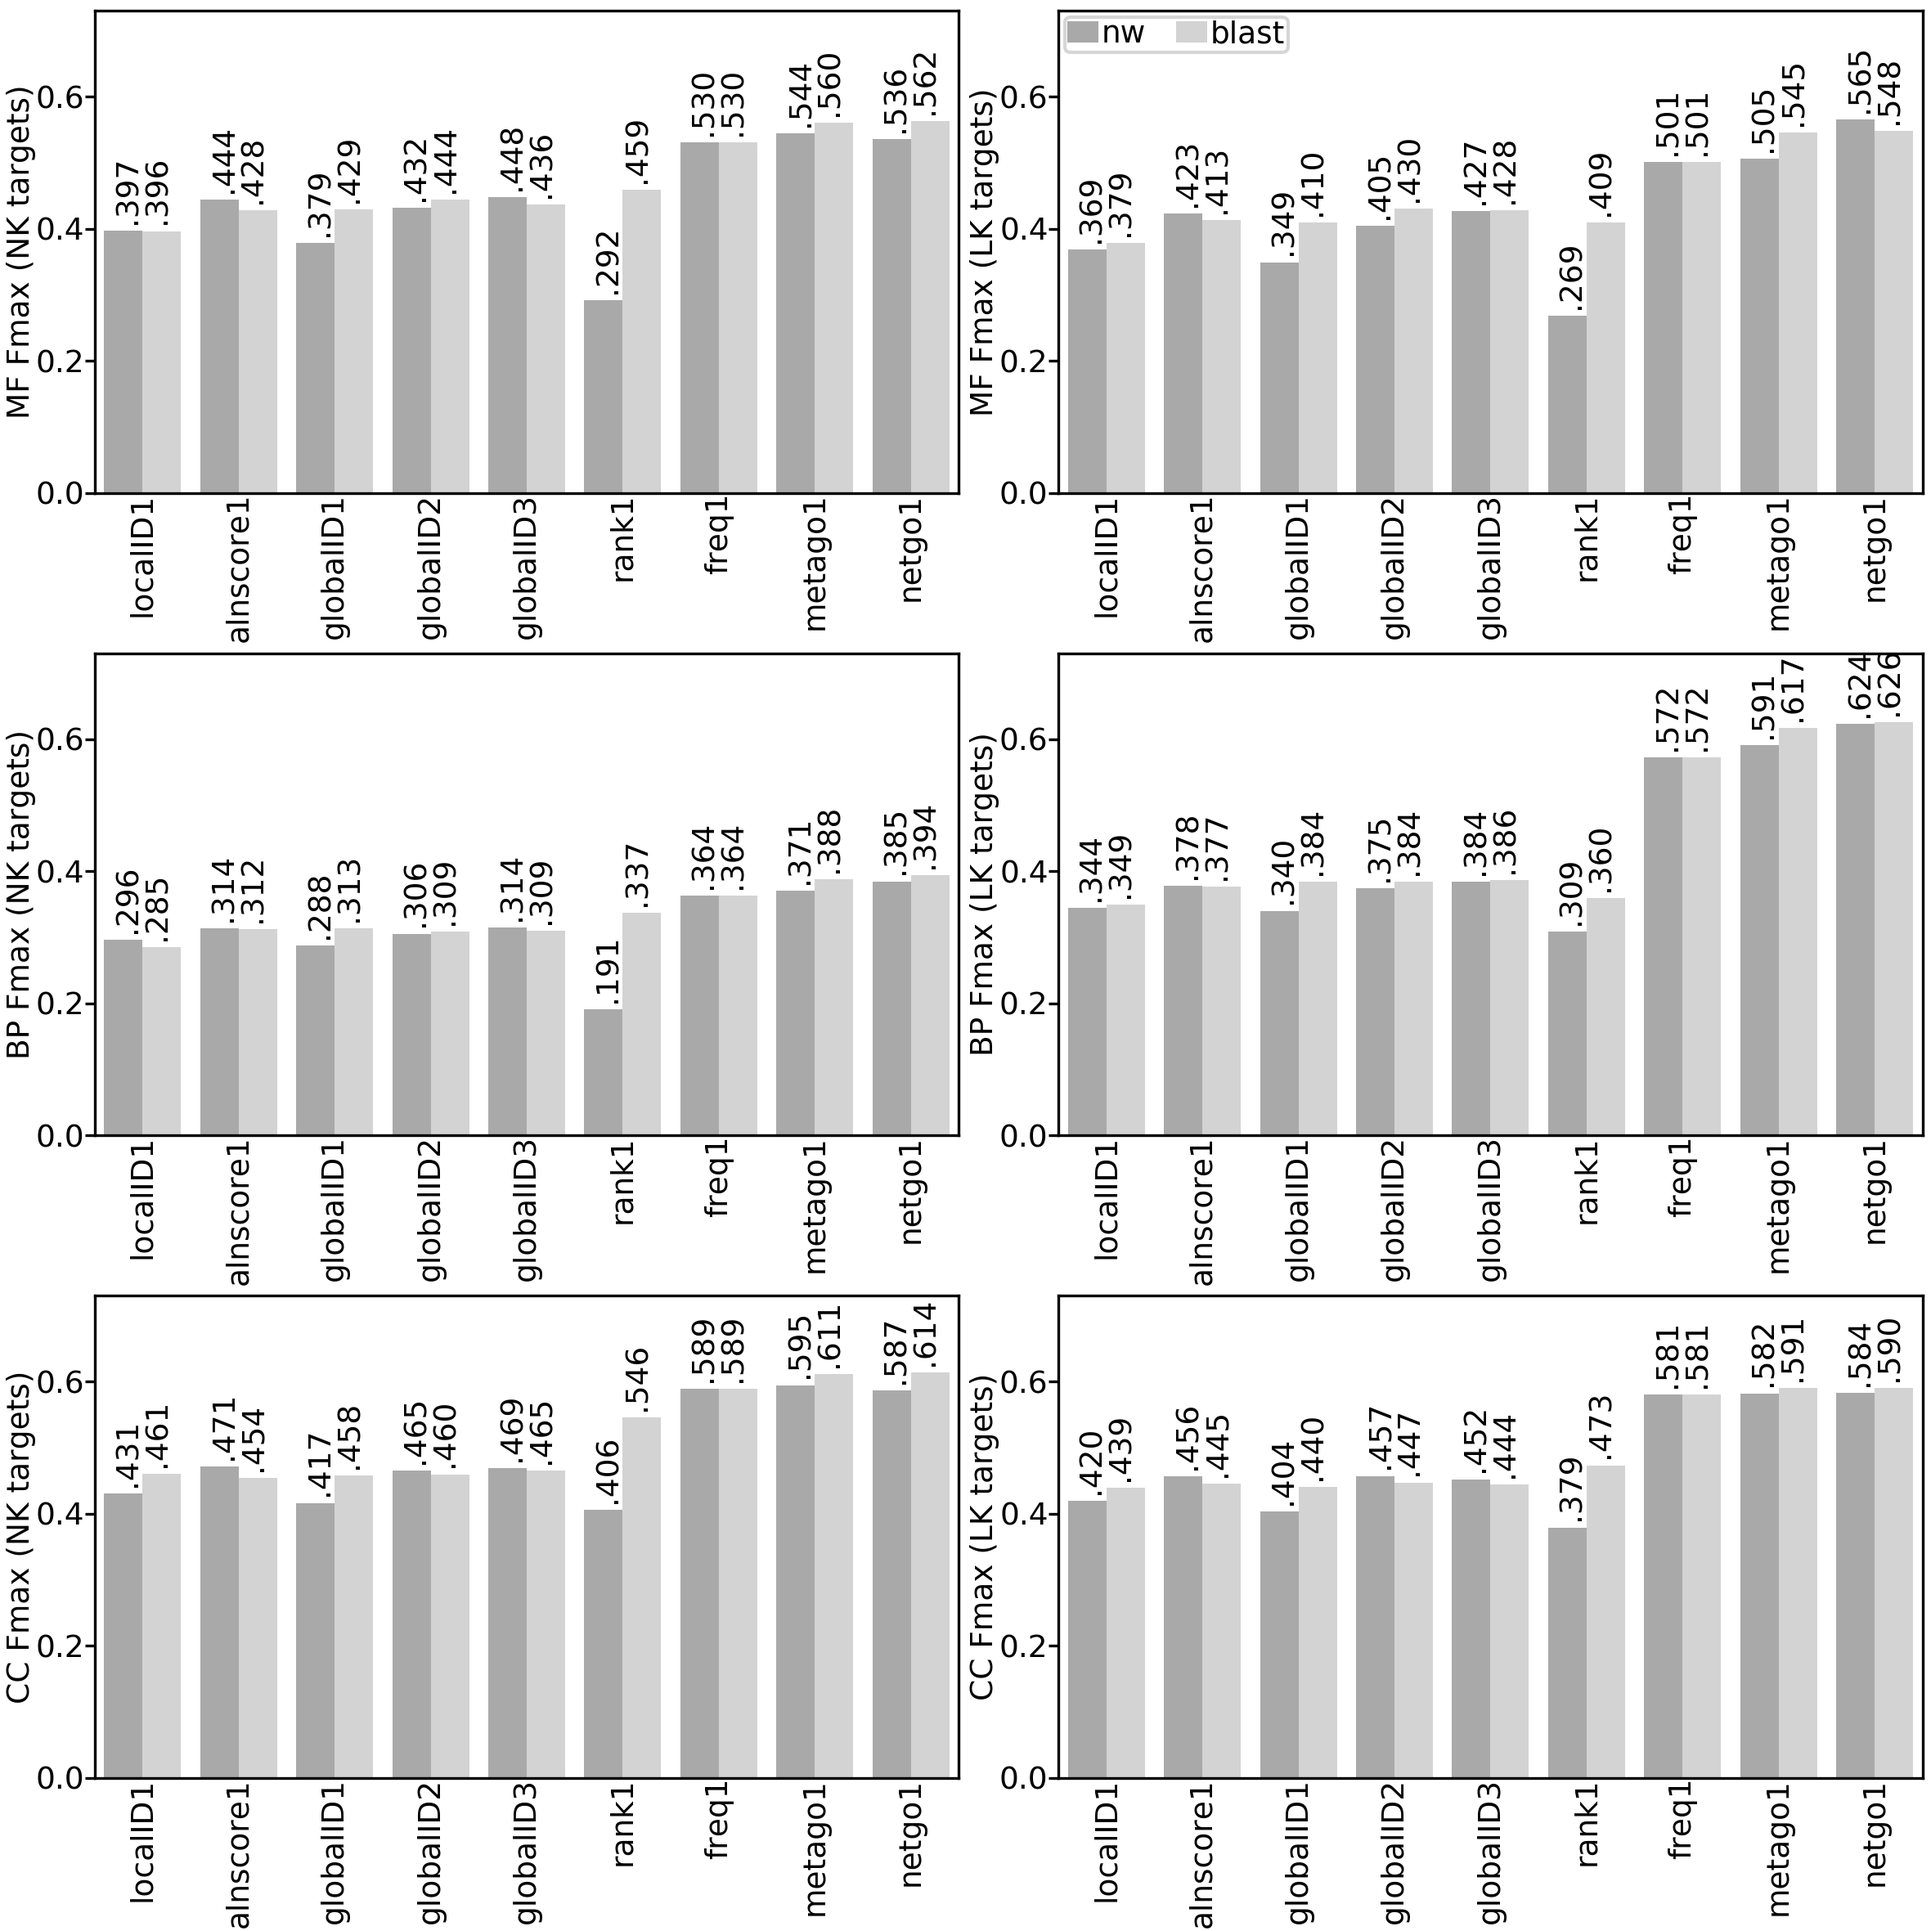
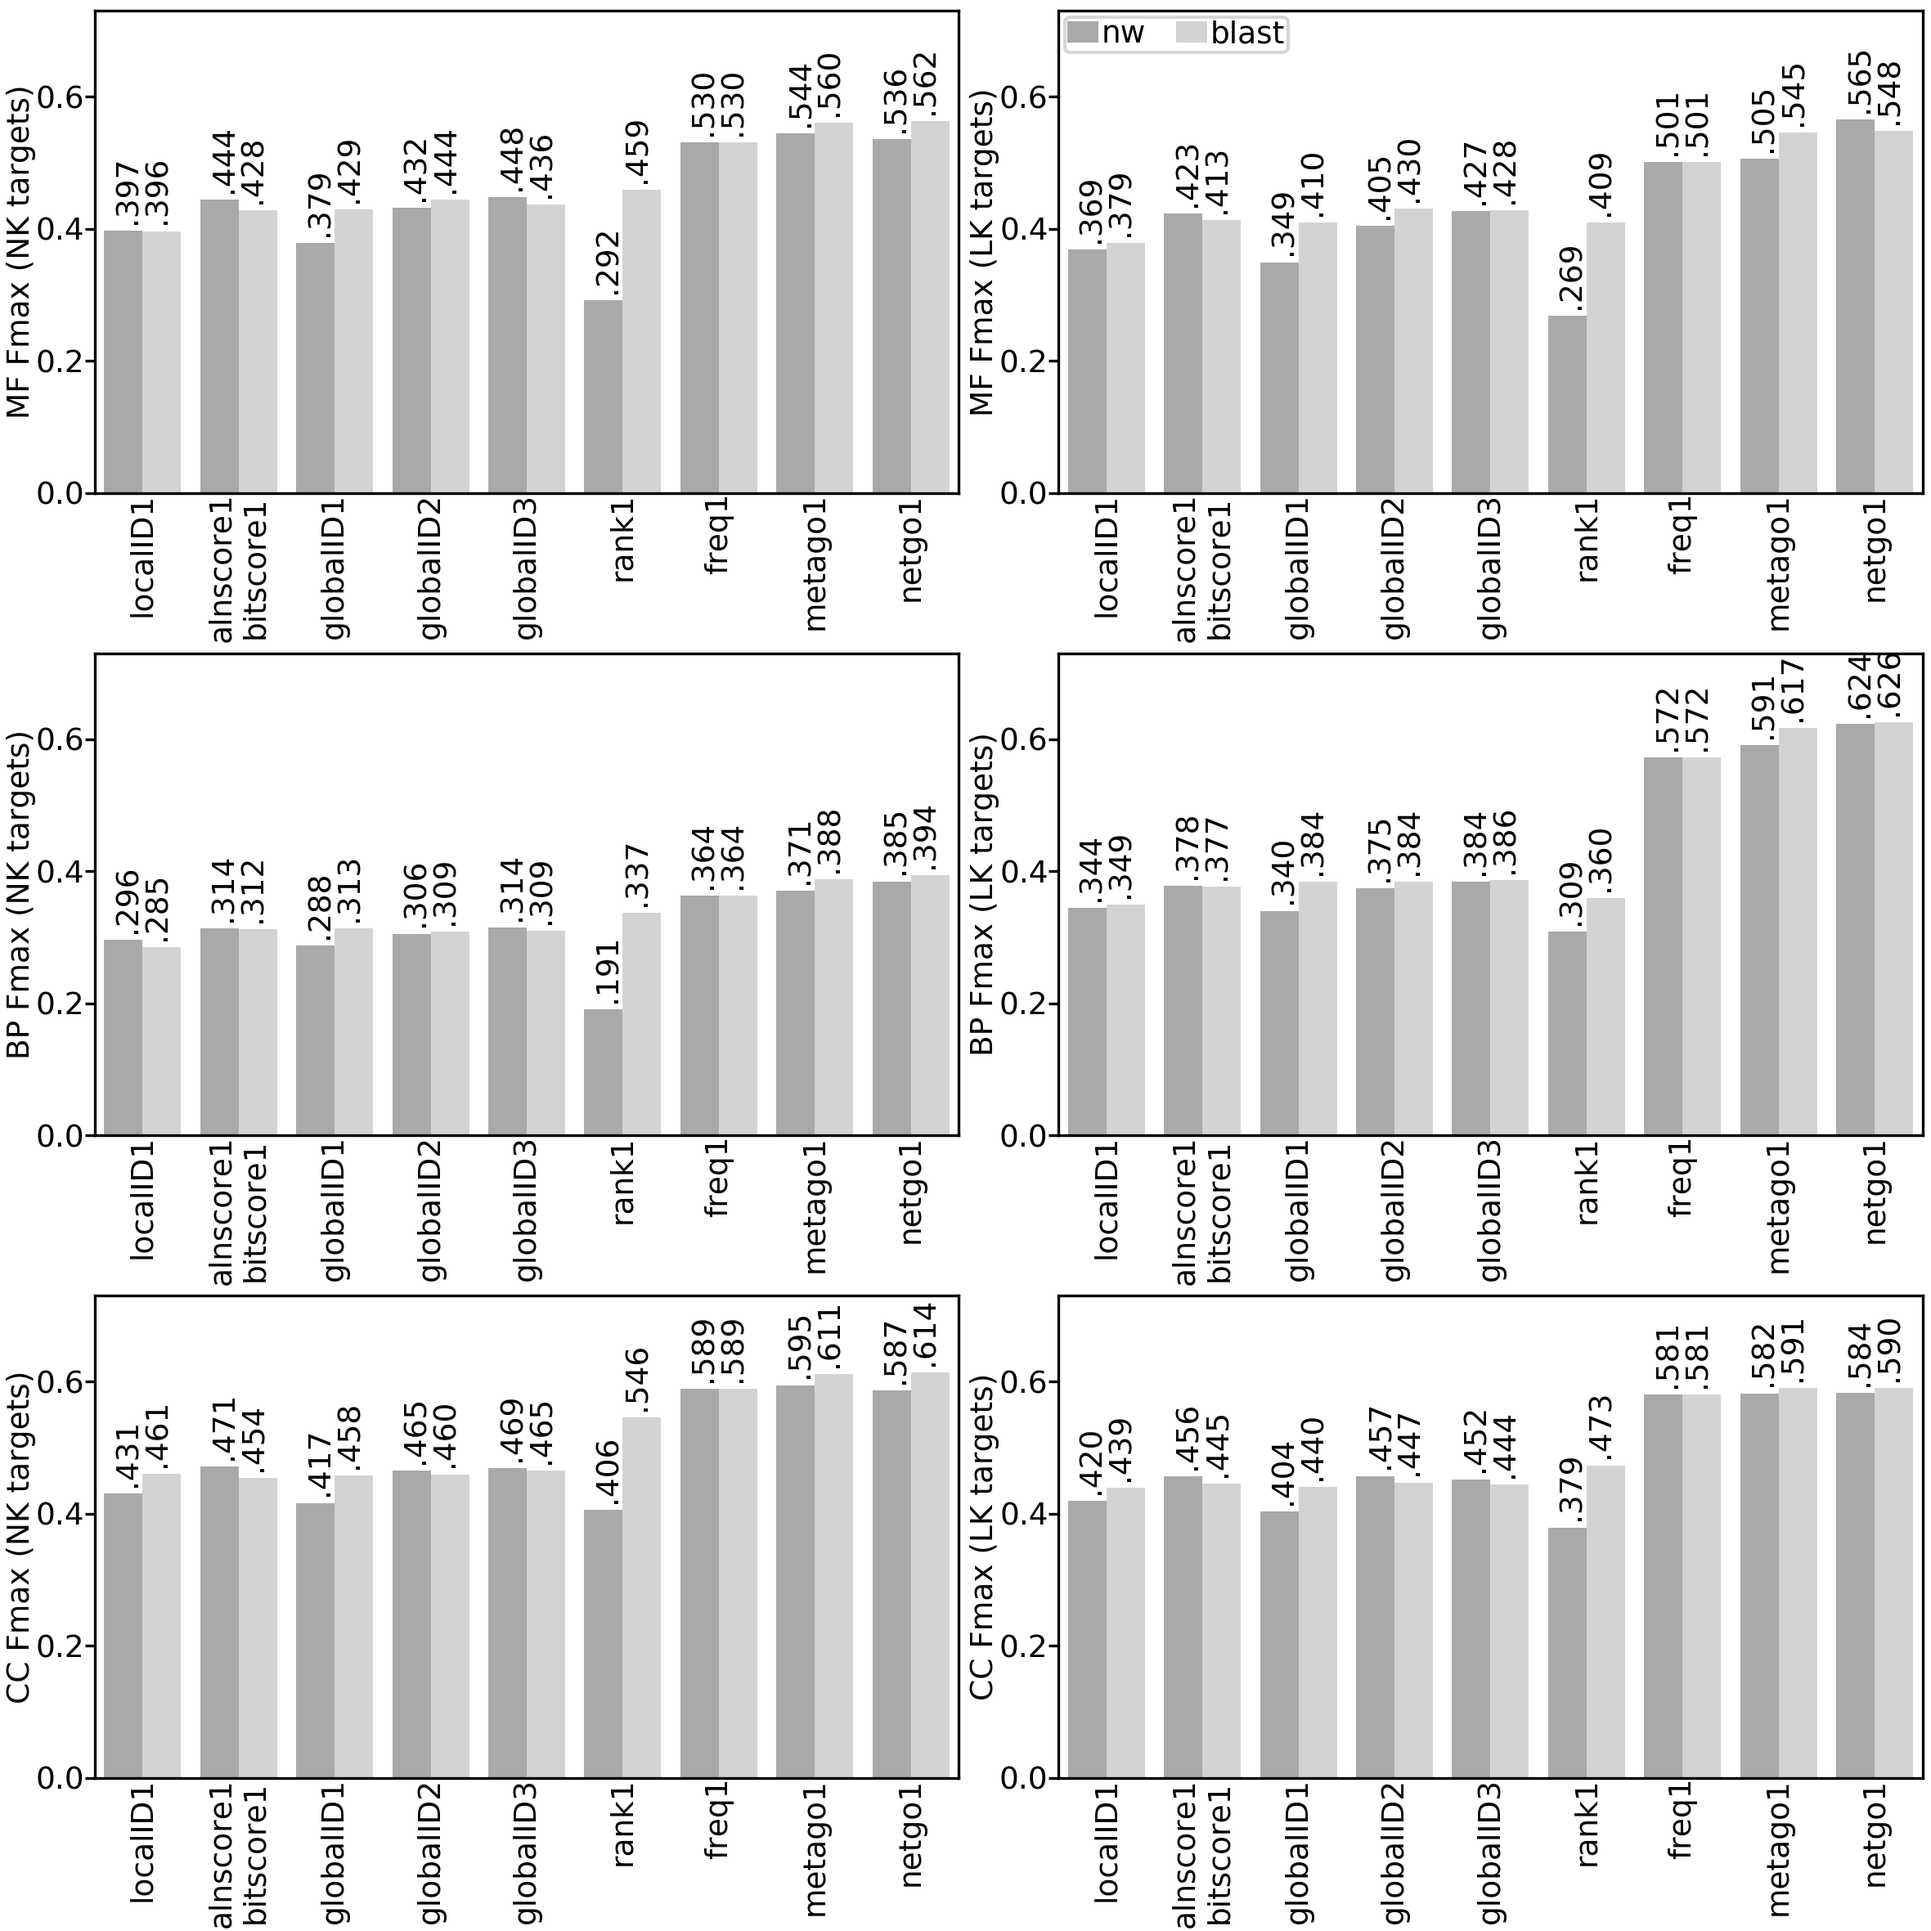
explain nw freq

diff --git a/plot_nw.py b/plot_nw.py
@@ -54,9 +54,12 @@ for a,Aspect in enumerate(["mf","bp","cc"]):
         plt.ylabel("%s Fmax (%s targets)"%(
             Aspect.upper(),Knowledge), labelpad=0,fontsize=fontsize)
         plt.yticks(fontsize=fontsize)
-        plt.xticks(range(len(fmax_list)),
-            [method.replace('_','') for method in method_list],
-            rotation=90,fontsize=fontsize)
+        xticks=[]
+        for method in method_list:
+            xticks.append(method.replace('_',''))
+            if xticks[-1]=="alnscore1":
+                xticks[-1]+="\nbitscore1"
+        plt.xticks(range(len(fmax_list)),xticks,rotation=90,fontsize=fontsize)
         plt.axis([-0.5,len(method_list)-0.5,0,0.73])
         ax.tick_params('x',length=0)
         ax.tick_params('y',length=3)

diff --git a/README.md b/README.md
@@ -189,7 +189,10 @@ higher accuracy than all scorings that use only the top hit of each term
 ![Fmax_full_nw.png](Fmax_full_nw.png?raw=true "Fmax_full_nw.png")
 Comparison between NW and blast show that global alignment does not result in
 more accurate GO prediction than local alignment, except for alnscore/bitscore,
-where NW slightly outperform blast.
+where NW slightly outperform blast. NW and blast result in the same performance
+by freq because the NW implement only perform realignment of blast hits rather
+than a full database search; since the hits are the same, the frequency of GO
+terms among hits are also the same.
 
 ## License ##
 This program is free software: you can redistribute it and/or modify
